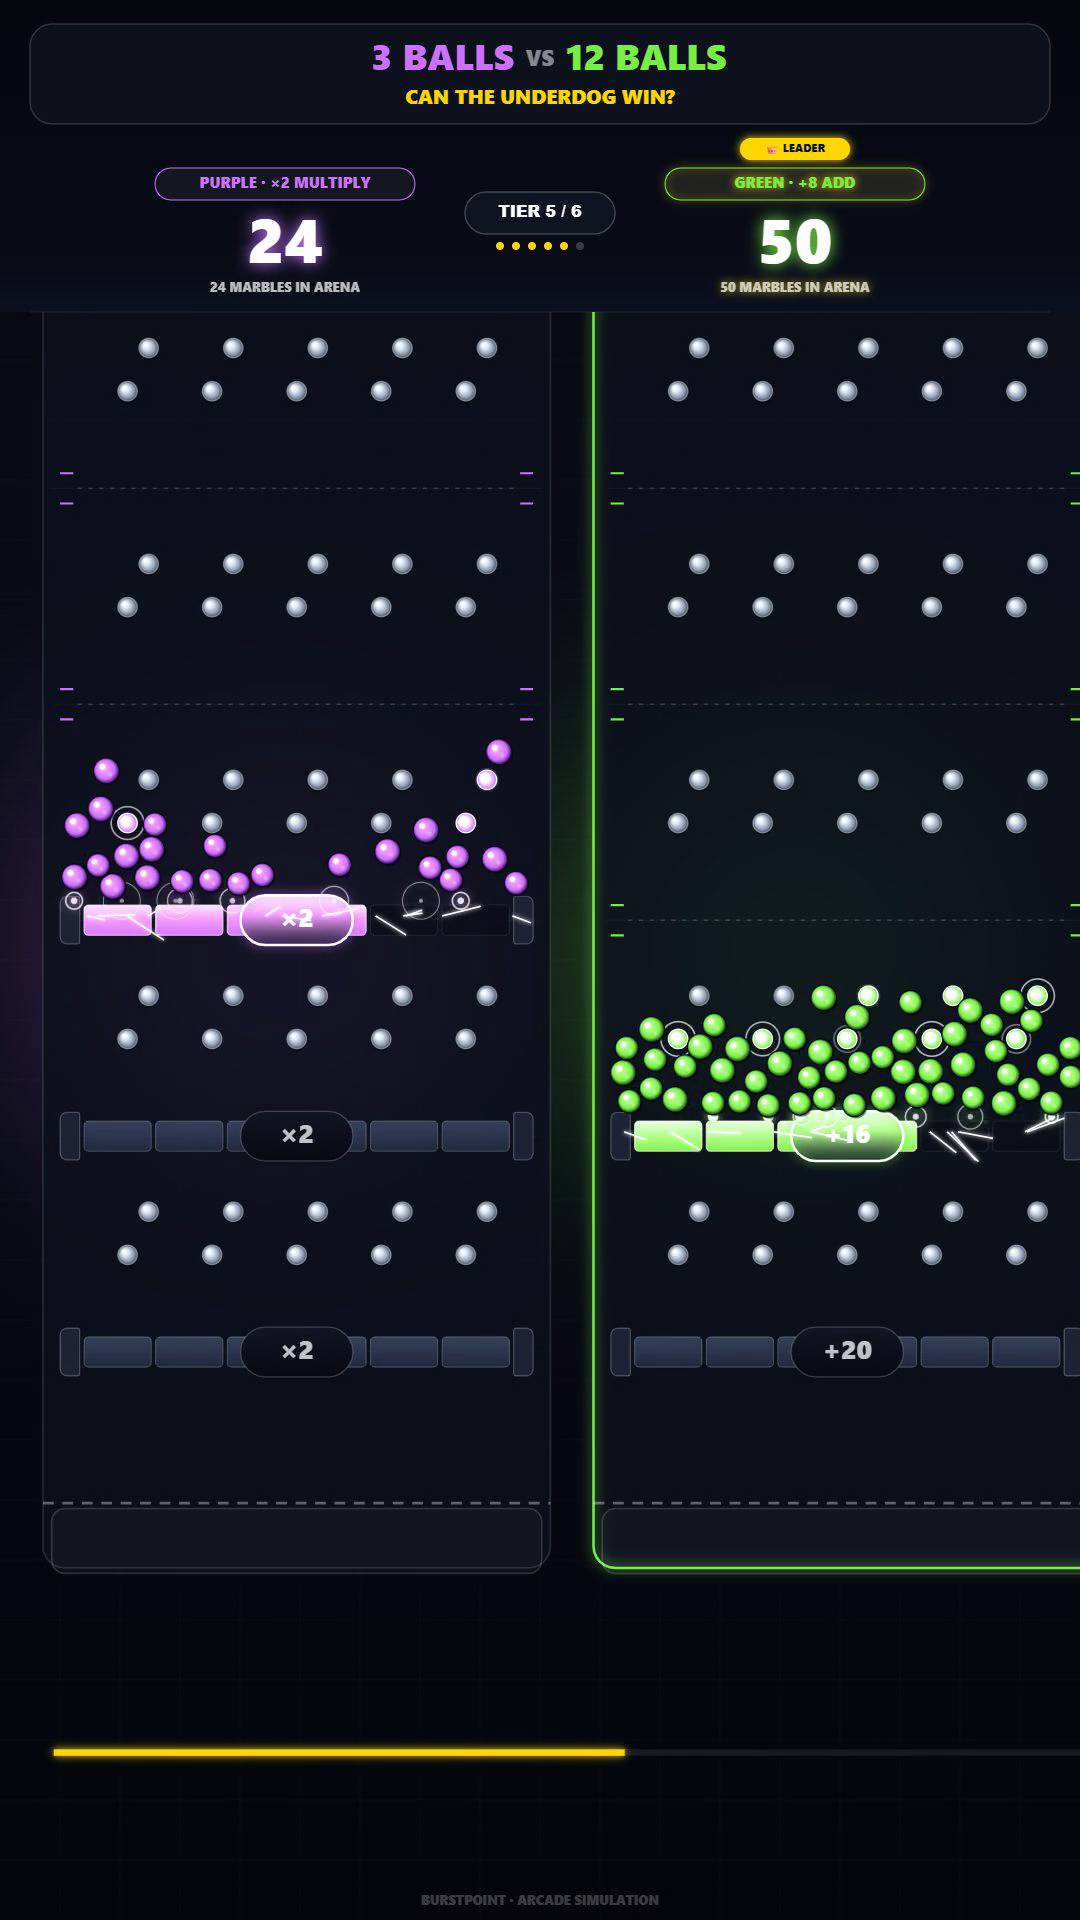
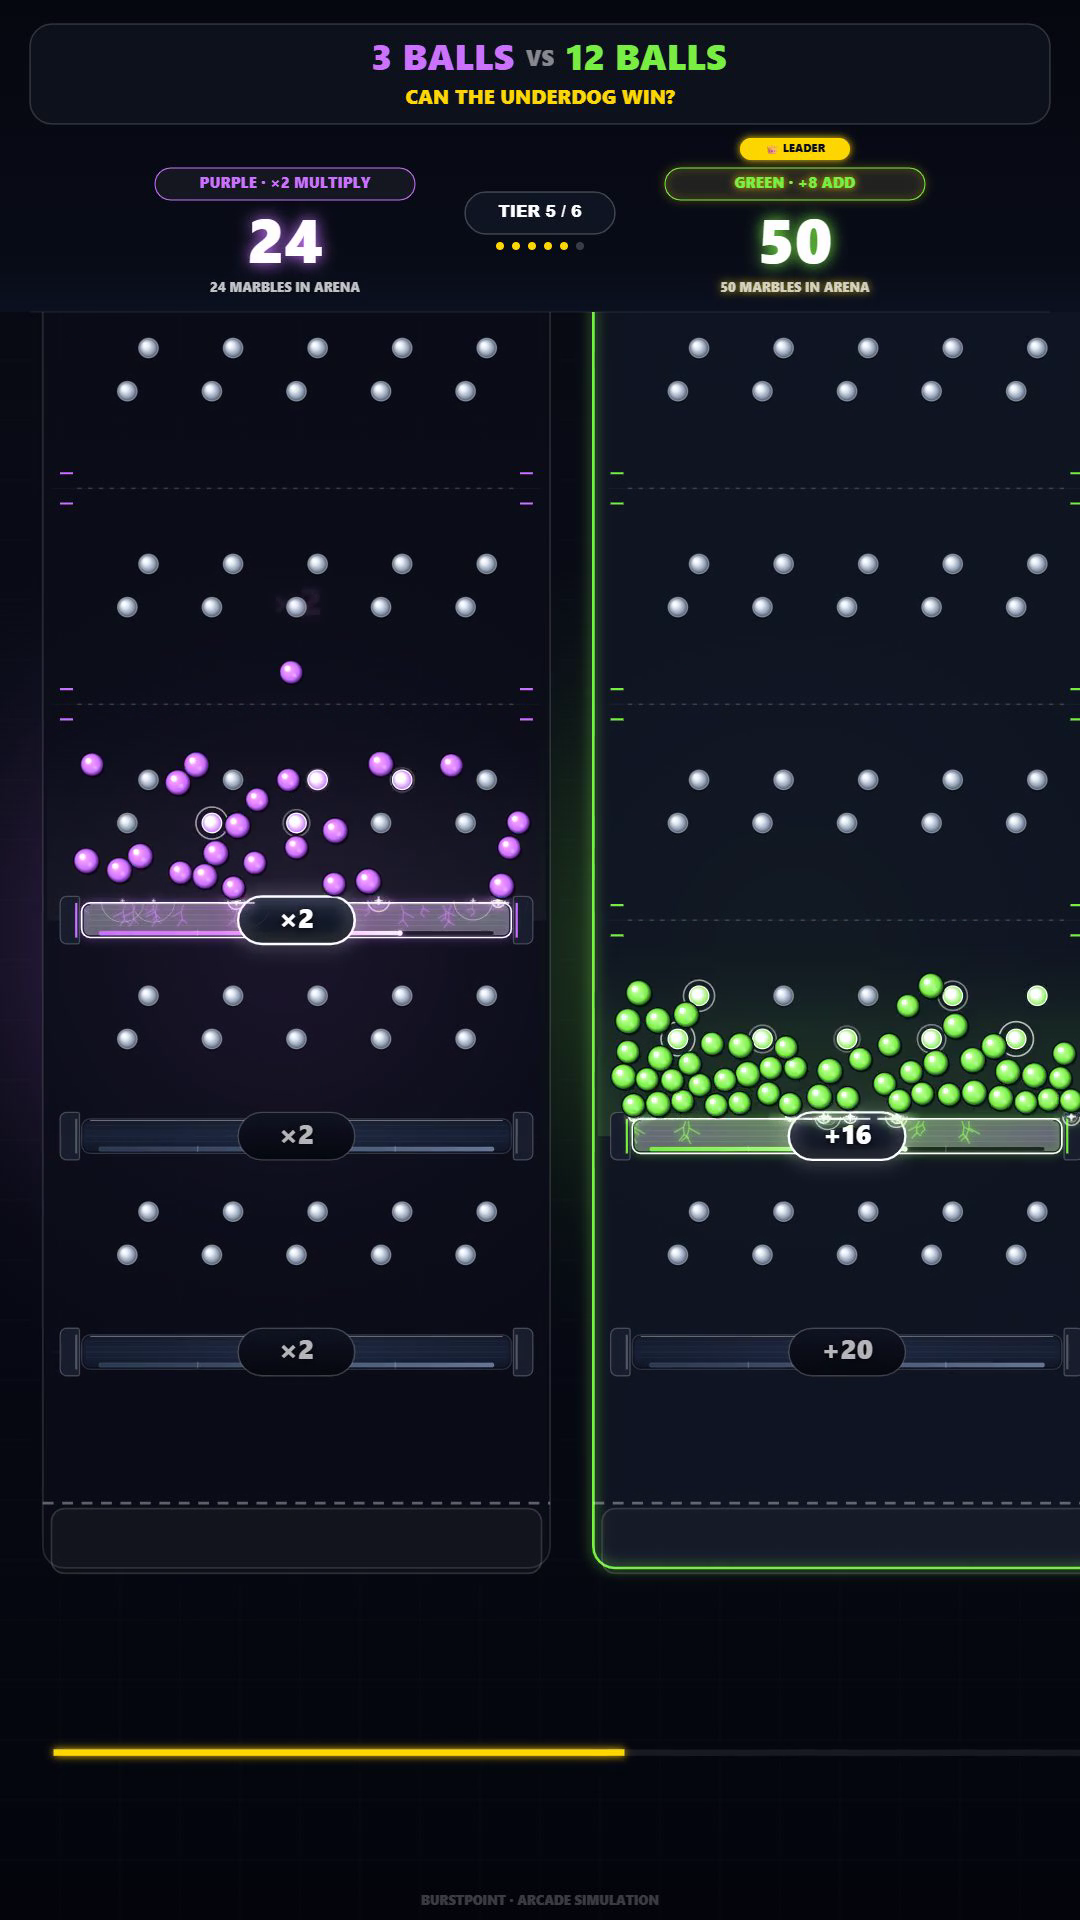
feat(renderer): refine tile shatter shockwave to localized organic randomized circle with shortspan
- Replace rigid geometric circle with 24-vertex multi-harmonic organic randomized circular contour
- Constrain maximum radius to localized envelope (tileW * 0.16, max 58px) leaving 65% of lane clear
- Tighten animation lifespan to snappy 0.19s with explosive cubic ease-out dissipation
- Replace disconnected needle ticks with anchored perimeter blast dart nodes
- Shorten horizontal plasma beam to centered core ejection pulse (no full-lane slicing)
- Pass 100% of test suites: simulation (9/9), adapters (4/4), scheduler (4/4), publisher (4/4), qualification (12/12)

diff --git a/src/renderer.js b/src/renderer.js
@@ -932,82 +932,151 @@ class CanvasRenderer {
           const teamRgb = lane.side === 'left' ? '203, 114, 255' : '121, 239, 67';
           const accentRgb = lane.side === 'left' ? '245, 154, 255' : '178, 255, 138';
 
-          if (tile.shatterTime !== undefined && (engine.simTime - tile.shatterTime < 0.55)) {
+          if (tile.shatterTime !== undefined && (engine.simTime - tile.shatterTime < 0.19)) {
             const sAge = engine.simTime - tile.shatterTime;
             const centerX = tileX + tileW / 2;
             const centerY = tile.y;
+            const seedPhase = (tile.index * 2.399) + (lane.side === 'left' ? 1.15 : 3.82);
+            const numVerts = 24;
 
-            // 1. Energetic Blast Flash (Detonation flare across the chamber)
-            if (sAge < 0.22) {
-              const pFlash = sAge / 0.22;
+            // 1. Energetic Blast Flash (Tight localized organic detonation burst)
+            if (sAge < 0.13) {
+              const pFlash = sAge / 0.13;
               const flashAlpha = 1.0 - pFlash;
-              const flashRadius = Math.min(tileW * 0.45, 30 + pFlash * 180);
+              const flashRadius = Math.min(tileW * 0.12, 14 + pFlash * 28);
 
               ctx.save();
-              const blastGrad = ctx.createRadialGradient(centerX, centerY, 0, centerX, centerY, flashRadius);
+              const blastGrad = ctx.createRadialGradient(centerX, centerY, 0, centerX, centerY, flashRadius * 1.15);
               blastGrad.addColorStop(0, `rgba(255, 255, 255, ${flashAlpha * 0.95})`);
-              blastGrad.addColorStop(0.30, `rgba(${accentRgb}, ${flashAlpha * 0.70})`);
-              blastGrad.addColorStop(0.65, `rgba(${teamRgb}, ${flashAlpha * 0.30})`);
+              blastGrad.addColorStop(0.35, `rgba(${accentRgb}, ${flashAlpha * 0.70})`);
+              blastGrad.addColorStop(0.70, `rgba(${teamRgb}, ${flashAlpha * 0.25})`);
               blastGrad.addColorStop(1, `rgba(${teamRgb}, 0)`);
               ctx.fillStyle = blastGrad;
+
+              // Organic randomized circle contour fill for core flash (no rigid geometric circles)
               ctx.beginPath();
-              ctx.arc(centerX, centerY, flashRadius, 0, Math.PI * 2);
+              for (let k = 0; k < numVerts; k++) {
+                const angle = (k / numVerts) * Math.PI * 2;
+                const h1 = Math.sin(angle * 3 + seedPhase);
+                const h2 = Math.cos(angle * 5 - seedPhase * 1.5);
+                const h3 = Math.sin(angle * 7 + seedPhase * 0.7);
+                const h4 = Math.cos(angle * 9 + 0.6);
+                const rMod = 1.0 + 0.14 * h1 + 0.11 * h2 + 0.07 * h3 + 0.05 * h4;
+                const r = flashRadius * rMod;
+                const vx = centerX + Math.cos(angle) * r;
+                const vy = centerY + Math.sin(angle) * r;
+                if (k === 0) ctx.moveTo(vx, vy);
+                else ctx.lineTo(vx, vy);
+              }
+              ctx.closePath();
               ctx.fill();
 
-              // Energetic diamond blast cross flare
-              const flareLen = (1 - pFlash) * (tileW * 0.42);
-              ctx.strokeStyle = `rgba(255, 255, 255, ${flashAlpha * 0.85})`;
-              ctx.lineWidth = 2.5 * (1 - pFlash);
+              // Tight diamond blast cross flare
+              const flareLen = (1 - pFlash) * Math.min(tileW * 0.16, 36);
+              ctx.strokeStyle = `rgba(255, 255, 255, ${flashAlpha * 0.90})`;
+              ctx.lineWidth = 2.0 * (1 - pFlash);
               ctx.shadowColor = lane.accentColor;
-              ctx.shadowBlur = 12;
+              ctx.shadowBlur = 10;
               ctx.beginPath();
               ctx.moveTo(centerX - flareLen, centerY);
               ctx.lineTo(centerX + flareLen, centerY);
-              ctx.moveTo(centerX, centerY - flareLen * 0.35);
-              ctx.lineTo(centerX, centerY + flareLen * 0.35);
+              ctx.moveTo(centerX, centerY - flareLen * 0.40);
+              ctx.lineTo(centerX, centerY + flareLen * 0.40);
               ctx.stroke();
               ctx.restore();
             }
 
-            // 2. Expanding Radial Shockwave Ring (Proportionately scaled to barrier width)
-            if (sAge < 0.45) {
-              const pWave = sAge / 0.45;
+            // 2. Dynamic Organic Randomized Circular Shockwave (Tight localized impulse)
+            if (sAge < 0.19) {
+              const pWave = sAge / 0.19;
               const waveAlpha = 1.0 - pWave;
-              const maxWave = tileW * 0.54;
-              // Explosive ease-out expansion curve
-              const waveRadius = 14 + (1 - Math.pow(1 - pWave, 2.5)) * maxWave;
+              const maxWave = Math.min(tileW * 0.16, 58);
+              // Explosive ease-out curve for punchy, immediate feedback
+              const waveRadius = 15 + (1 - Math.pow(1 - pWave, 3)) * maxWave;
 
               ctx.save();
+
+              // Primary outer randomized organic shockwave ring (multi-harmonic non-uniform contour)
               ctx.beginPath();
-              ctx.arc(centerX, centerY, waveRadius, 0, Math.PI * 2);
-              ctx.strokeStyle = `rgba(255, 255, 255, ${waveAlpha * 0.92})`;
-              ctx.lineWidth = 3.0 * (1 - pWave);
+              for (let k = 0; k < numVerts; k++) {
+                const angle = (k / numVerts) * Math.PI * 2;
+                const h1 = Math.sin(angle * 3 + seedPhase);
+                const h2 = Math.cos(angle * 5 - seedPhase * 1.5);
+                const h3 = Math.sin(angle * 7 + seedPhase * 0.7);
+                const h4 = Math.cos(angle * 9 + 0.6);
+                const rMod = 1.0 + 0.14 * h1 + 0.11 * h2 + 0.07 * h3 + 0.05 * h4;
+                const r = waveRadius * rMod;
+                const vx = centerX + Math.cos(angle) * r;
+                const vy = centerY + Math.sin(angle) * r;
+                if (k === 0) ctx.moveTo(vx, vy);
+                else ctx.lineTo(vx, vy);
+              }
+              ctx.closePath();
+              ctx.strokeStyle = `rgba(255, 255, 255, ${waveAlpha * 0.95})`;
+              ctx.lineWidth = 2.4 * (1 - pWave);
               ctx.shadowColor = lane.accentColor;
-              ctx.shadowBlur = 14;
+              ctx.shadowBlur = 12;
               ctx.stroke();
 
-              // Secondary trailing harmonic concentric wave ring
+              // Secondary trailing inner harmonic organic ring (staggered angular phase)
               ctx.beginPath();
-              ctx.arc(centerX, centerY, waveRadius * 0.80, 0, Math.PI * 2);
-              ctx.strokeStyle = `rgba(${teamRgb}, ${waveAlpha * 0.65})`;
-              ctx.lineWidth = 1.6 * (1 - pWave);
-              ctx.shadowBlur = 8;
+              const innerRadius = waveRadius * 0.68;
+              for (let k = 0; k < numVerts; k++) {
+                const angle = ((k + 0.5) / numVerts) * Math.PI * 2;
+                const h1 = Math.sin(angle * 3 + seedPhase + 1.2);
+                const h2 = Math.cos(angle * 5 - seedPhase);
+                const h3 = Math.sin(angle * 7 + 0.4);
+                const rMod = 1.0 + 0.12 * h1 + 0.10 * h2 + 0.06 * h3;
+                const r = innerRadius * rMod;
+                const vx = centerX + Math.cos(angle) * r;
+                const vy = centerY + Math.sin(angle) * r;
+                if (k === 0) ctx.moveTo(vx, vy);
+                else ctx.lineTo(vx, vy);
+              }
+              ctx.closePath();
+              ctx.strokeStyle = `rgba(${teamRgb}, ${waveAlpha * 0.70})`;
+              ctx.lineWidth = 1.4 * (1 - pWave);
+              ctx.shadowBlur = 6;
               ctx.stroke();
+
+              // Anchored radial micro-fracture blast darts along prominent perimeter apexes
+              ctx.beginPath();
+              for (let k = 0; k < numVerts; k += 3) {
+                const angle = (k / numVerts) * Math.PI * 2;
+                const h1 = Math.sin(angle * 3 + seedPhase);
+                const h2 = Math.cos(angle * 5 - seedPhase * 1.5);
+                const h3 = Math.sin(angle * 7 + seedPhase * 0.7);
+                const h4 = Math.cos(angle * 9 + 0.6);
+                const rMod = 1.0 + 0.14 * h1 + 0.11 * h2 + 0.07 * h3 + 0.05 * h4;
+                const r = waveRadius * rMod;
+                const dartLen = (1 - pWave) * (6 + ((k * 5) % 8));
+                const x1 = centerX + Math.cos(angle) * r;
+                const y1 = centerY + Math.sin(angle) * r;
+                const x2 = centerX + Math.cos(angle) * (r + dartLen);
+                const y2 = centerY + Math.sin(angle) * (r + dartLen);
+                ctx.moveTo(x1, y1);
+                ctx.lineTo(x2, y2);
+              }
+              ctx.strokeStyle = `rgba(255, 255, 255, ${waveAlpha * 0.85})`;
+              ctx.lineWidth = 1.2 * (1 - pWave);
+              ctx.stroke();
+
               ctx.restore();
             }
 
-            // 3. Horizontal Barrier Ejection Plasma Pulse
-            if (sAge < 0.20) {
-              const pBeam = sAge / 0.20;
+            // 3. Localized Barrier Core Ejection Plasma Pulse
+            if (sAge < 0.15) {
+              const pBeam = sAge / 0.15;
               const beamAlpha = 1.0 - pBeam;
+              const beamHalfLen = Math.min(tileW * 0.22, 92) * (1 - pBeam);
               ctx.save();
               ctx.beginPath();
-              ctx.moveTo(tileX + 16, tile.y);
-              ctx.lineTo(tileX + tileW - 16, tile.y);
+              ctx.moveTo(centerX - beamHalfLen, tile.y);
+              ctx.lineTo(centerX + beamHalfLen, tile.y);
               ctx.strokeStyle = `rgba(255, 255, 255, ${beamAlpha * 0.85})`;
-              ctx.lineWidth = 4.5 * (1 - pBeam);
+              ctx.lineWidth = 3.5 * (1 - pBeam);
               ctx.shadowColor = lane.accentColor;
-              ctx.shadowBlur = 14;
+              ctx.shadowBlur = 12;
               ctx.stroke();
               ctx.restore();
             }
